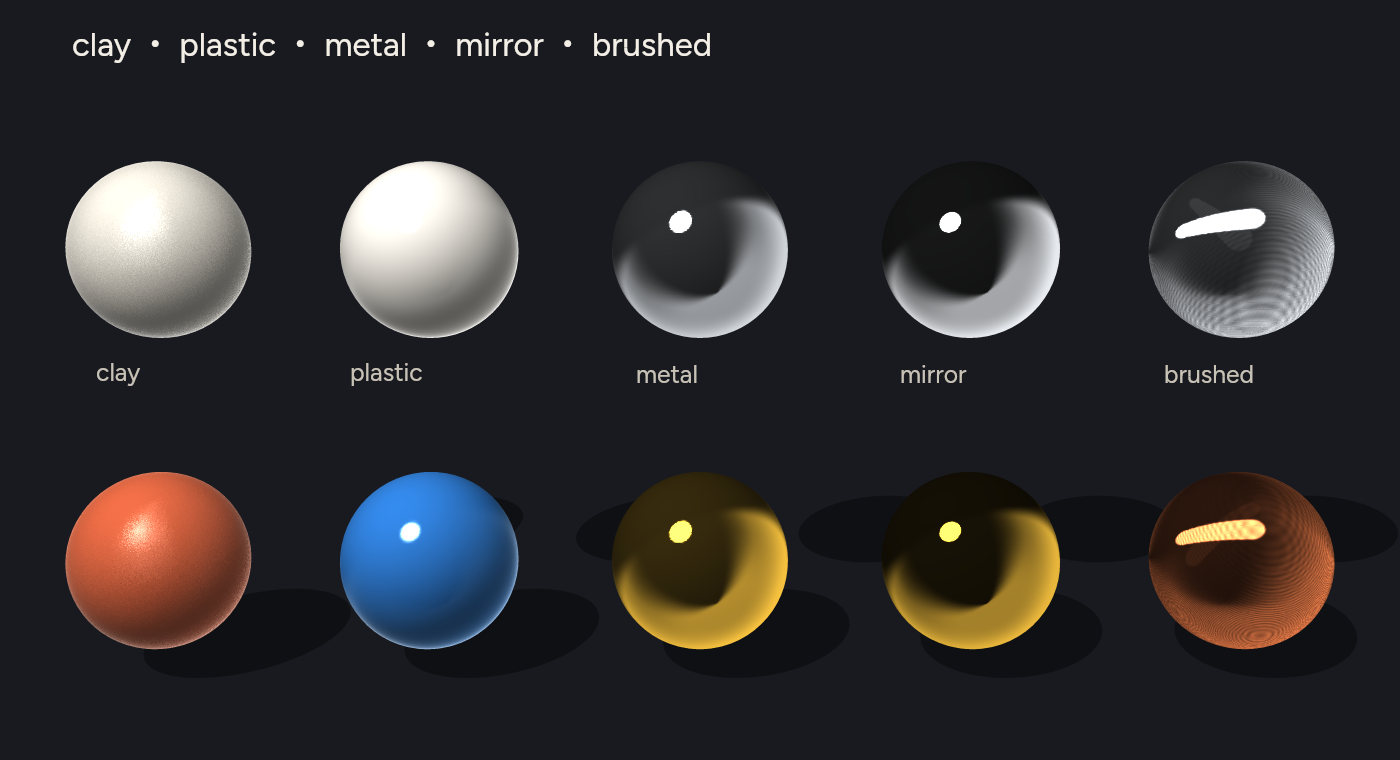
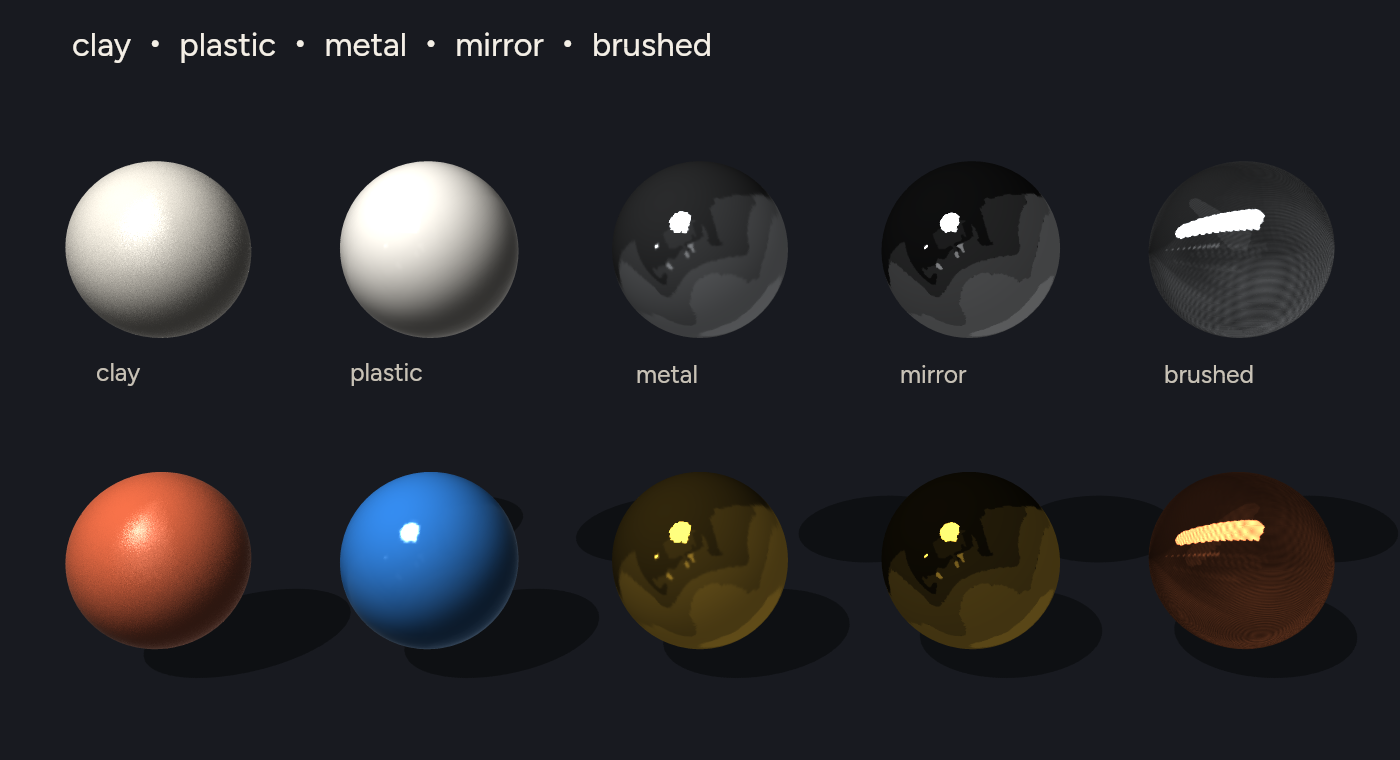
Show finishes under the traced studio.
Baked maps and the linux addon follow the photograph's shapes. The note for 0.13.7 names those shapes.

diff --git a/CHANGELOG.md b/CHANGELOG.md
@@ -4,7 +4,7 @@
 
 ## 0.13.7
 
-The fixed studio is Poly Haven `monochrome_studio_01` (Grzegorz Wronkowski, CC0). The umbrella is rotated onto the key light, so highlights and ground shadows stay on the same side. Baked finishes and the older metal, plastic, and glass reflections use a vector fit of that studio: a dark ceiling, the cove, and one umbrella. The fit has no texels. Its edge widens with roughness and with the angle one pixel covers, so a sharp reflection on a large face does not stair-step. `native/flexlayer-render` for linux-x64-gnu is rebuilt. The darwin-arm64 binary is unchanged.
+The fixed studio is Poly Haven `monochrome_studio_01` (Grzegorz Wronkowski, CC0). The softbox is rotated onto the key light, so highlights and ground shadows stay on the same side. Baked finishes and the older metal, plastic, and glass reflections trace that photograph as vector shapes: the dark ceiling, the two coves, the floor, the doorway, the windows, and the softbox. Small equipment is left out. There are no texels. An edge widens with roughness and with the angle one pixel covers, so a sharp reflection on a large face does not stair-step. `native/flexlayer-render` for linux-x64-gnu is rebuilt. The darwin-arm64 binary is unchanged.
 
 ## 0.13.6
 
